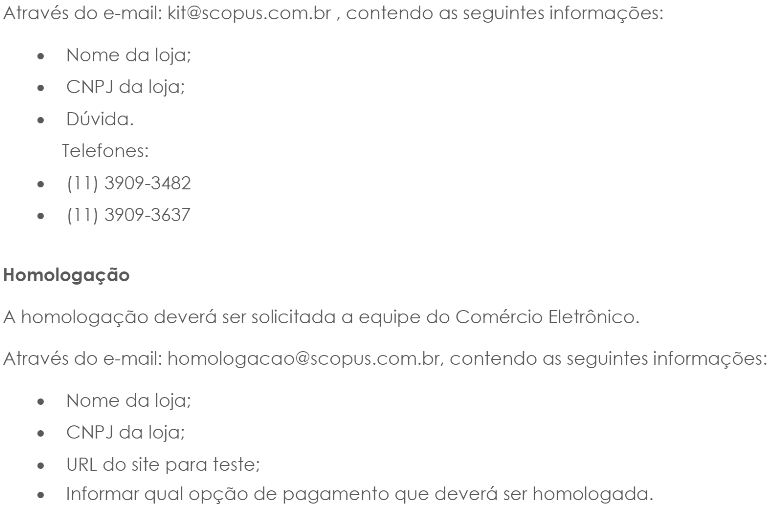
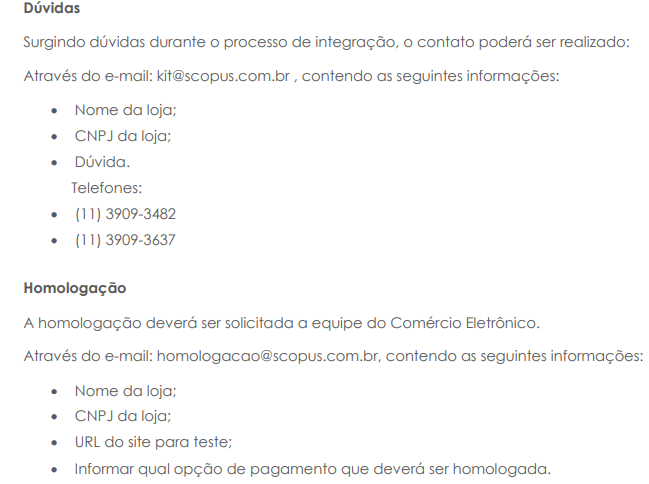
Atualização de readfile

diff --git a/README.md b/README.md
@@ -18,7 +18,7 @@ WebApi que faz integração com Servidores do Bradesco para gerar boleto bancár
 </ul>
 <br><h2>RODANDO O SISTEMA:</h2>
 Para rodar o sistema basta definir o projeto <b>Boleto.WebApi</b> como <i><b>Set as StartUp Project</b></i>
-<br><h2>HOMOLOGAÇÃO</h2>
+<br><h2>DÚVIDAS E HOMOLOGAÇÃO</h2>
 <img src="https://raw.githubusercontent.com/sfspacov/BoletoBradescoDotNetFramework/master/docs/homologacao.PNG" />
 <br><h2>DOCUMENTAÇÃO OFICIAL DO BRADESCO:</h2>
 https://github.com/sfspacov/BoletoBradescoDotNetFramework/blob/master/docs/Manual_BoletoBancario.pdf
